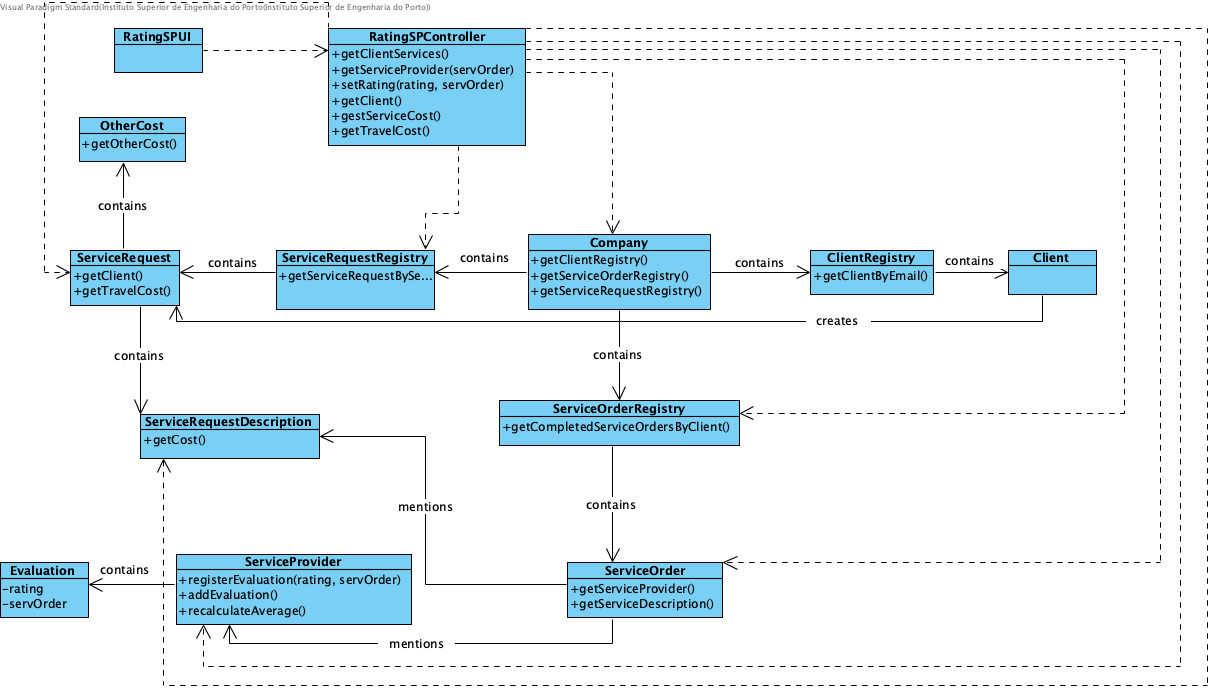
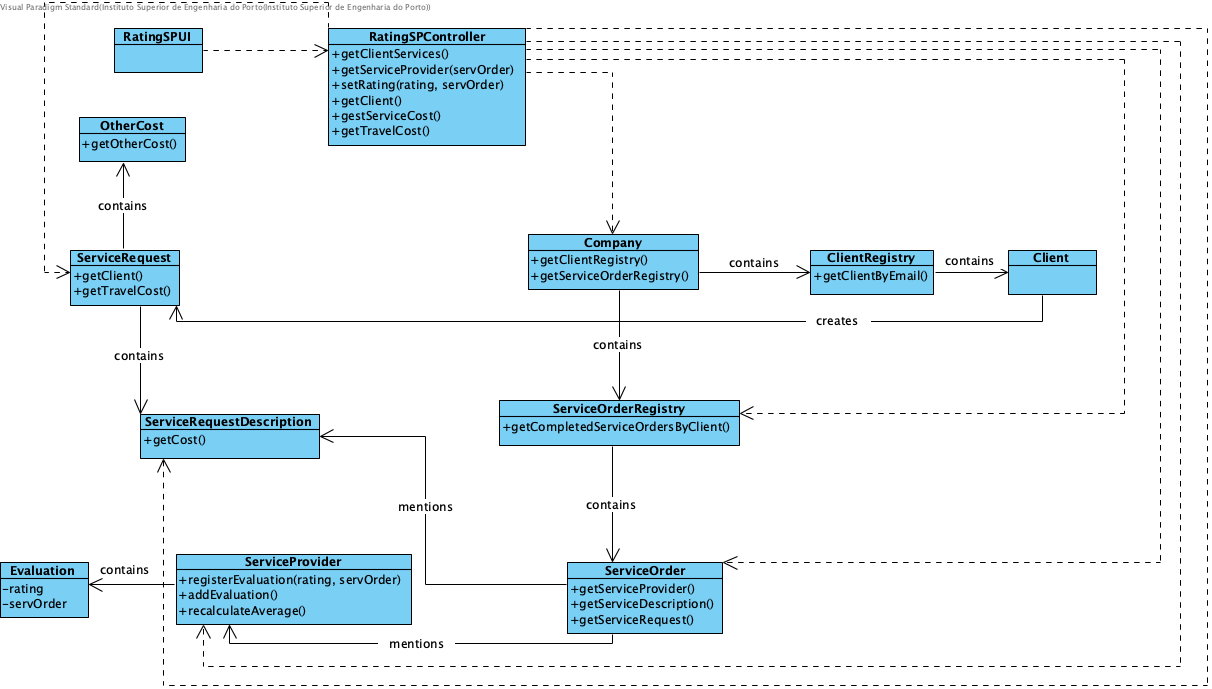
Fix to Design [UC-14] [Implementation]

diff --git a/Design/UC14_RatingServiceProvider.md b/Design/UC14_RatingServiceProvider.md
@@ -15,7 +15,7 @@
 || ... knows the Client who asked for the Service? | ServiceRequest | IE|
 || ... knows which Service was requested? | ServiceRequestDescription | IE|
 || ... knows the Service's cost? | ServiceRequestDescription | IE|
-|| ... knows all the Service Requests? | ServiceRequestRegistry | IE|
+|| ... knows the Service Request related to the Service Description? | ServiceOrder | IE|
 || ... knows the travel cost? | ServiceRequest | IE|
 | 6. The system asks the rating the Client intends to give to the Service Provider. ||||
 
